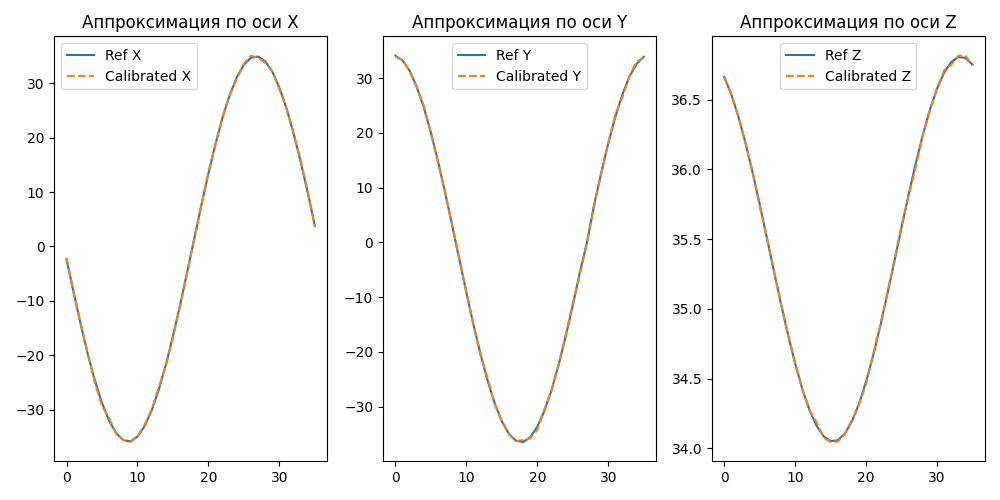
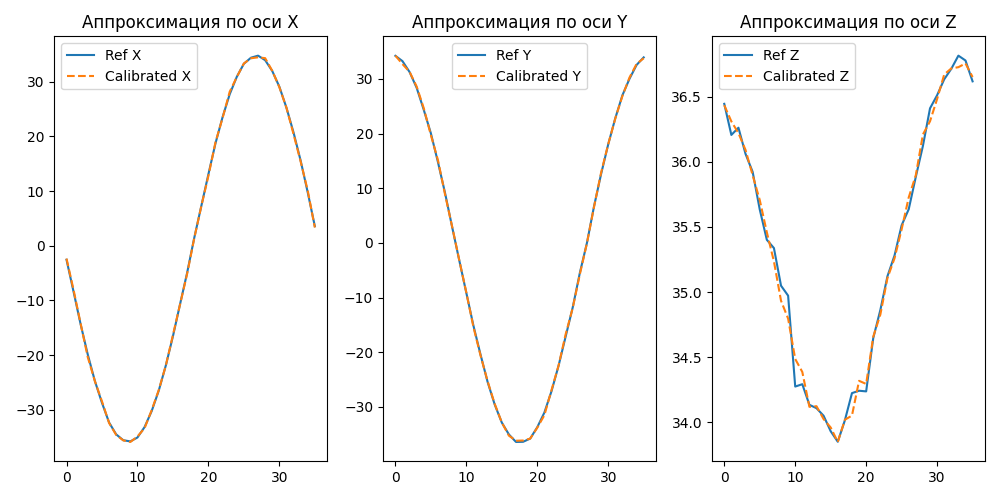
update generate_data.py

diff --git a/generate_data.py b/generate_data.py
@@ -62,8 +62,8 @@ if rotate_axes:
 
 # 2. Искажения: bias + scale + soft-iron (матрица) + шум 
 
-noise = np.random.normal(0, ref_noise_std, M_ref.shape)  # шум
-M_ref_noisy = M_ref + ref_noise_std
+ref_noise = np.random.normal(0, ref_noise_std, M_ref.shape)  # шум
+M_ref_noisy = M_ref + ref_noise
 M_ref_final = np.where(np.abs(M_ref_noisy) < detection_threshold, 0, M_ref_noisy)
 
 # === Температурная модель ===
